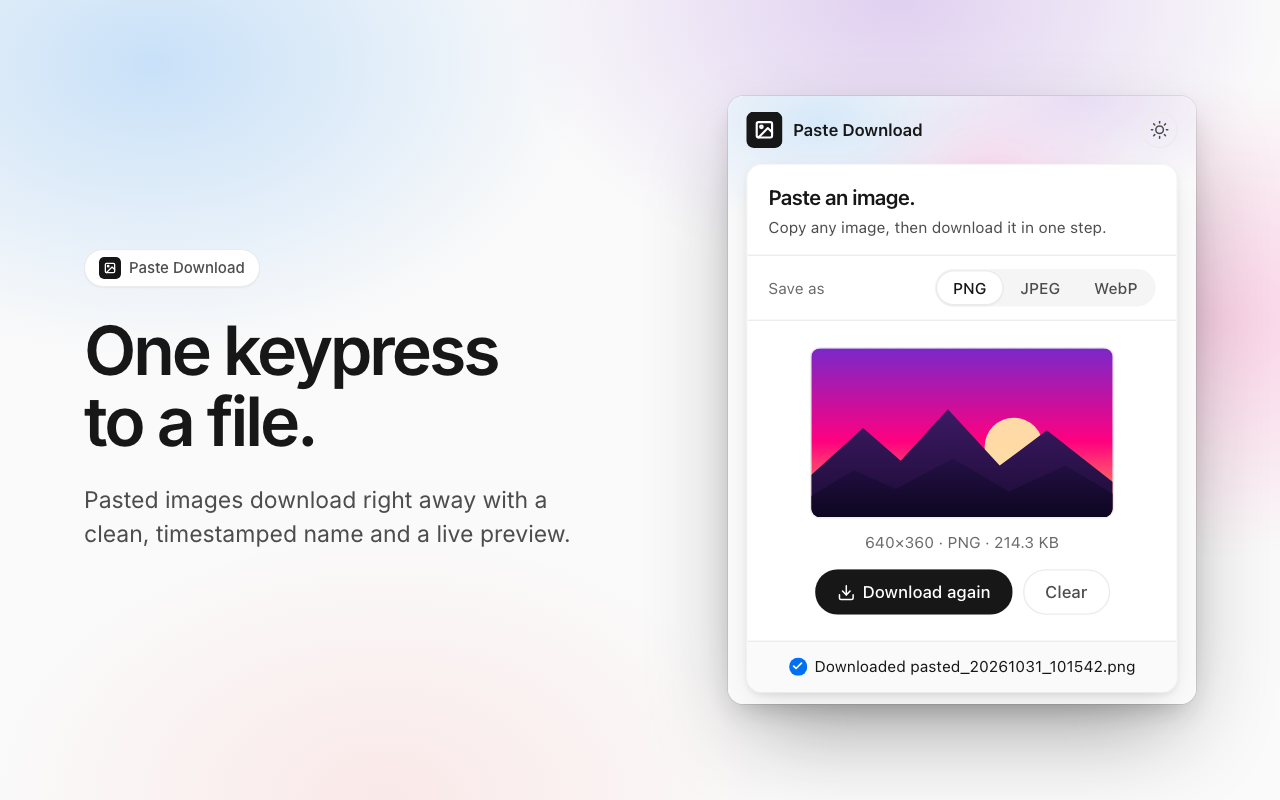
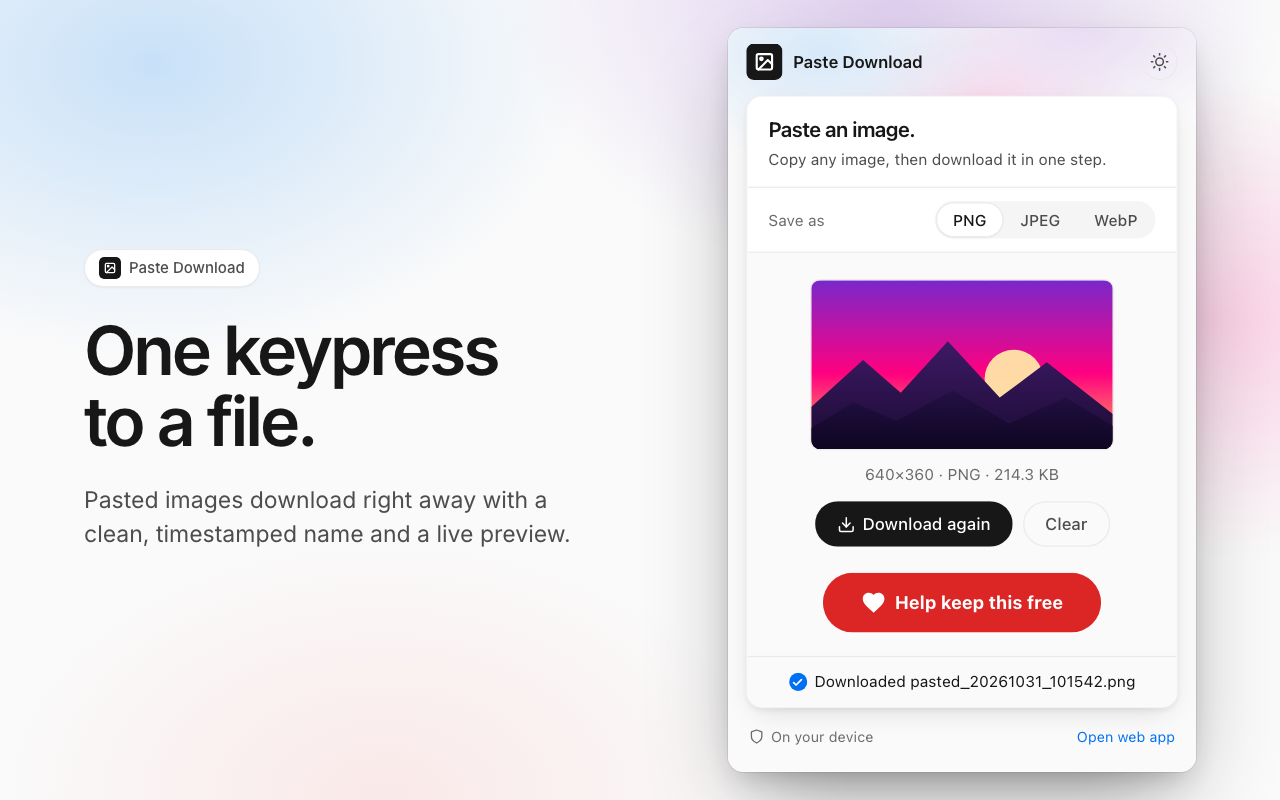
Add optional Ko-fi support button to extension, bump to 1.0.1, update listing, privacy policy and store assets

Changed region(s): [[0.5625, 0.3438, 0.9375, 1.0], [0.5625, 0.0312, 0.9062, 0.3125]]

diff --git a/extension/popup.js b/extension/popup.js
@@ -10,6 +10,8 @@ const shortcut = document.getElementById('shortcut');
 const downloadBtn = document.getElementById('downloadBtn');
 const clearBtn = document.getElementById('clearBtn');
 const themeToggle = document.getElementById('themeToggle');
+const supportCard = document.getElementById('supportCard');
+const supportDismiss = document.getElementById('supportDismiss');
 
 const isMac = /Mac|iPhone|iPad/.test(navigator.platform);
 shortcut.textContent = isMac ? 'Cmd + V' : 'Ctrl + V';
@@ -29,6 +31,15 @@ function save(key, value) {
     localStorage.setItem(key, value);
   } catch {
     // Storage unavailable, ignore
+  }
+}
+
+const SUPPORT_SNOOZE_MS = 7 * 24 * 60 * 60 * 1000;
+
+function showSupportCard() {
+  const until = Number(load('pdaSupportSnooze', '0'));
+  if (Date.now() >= until) {
+    supportCard.hidden = false;
   }
 }
 
@@ -97,6 +108,7 @@ function convertAndDownload(img) {
     downloadBlob(blob, filename);
     info.textContent = `${img.naturalWidth}×${img.naturalHeight} · ${format.toUpperCase()} · ${formatFileSize(blob.size)}`;
     setStatus(`Downloaded ${filename}`, 'ok');
+    showSupportCard();
   }, getMimeType(format), 0.92);
 }
 
@@ -133,7 +145,6 @@ function clearPreview() {
   preview.hidden = true;
   placeholder.hidden = false;
   setStatus('', '');
-  dropZone.focus();
 }
 
 document.addEventListener('paste', (e) => {
@@ -181,6 +192,11 @@ formatButtons.forEach((btn) => {
   });
 });
 
+supportDismiss.addEventListener('click', () => {
+  save('pdaSupportSnooze', String(Date.now() + SUPPORT_SNOOZE_MS));
+  supportCard.hidden = true;
+});
+
 const themeOrder = ['system', 'light', 'dark'];
 
 function applyTheme(pref) {
@@ -202,4 +218,3 @@ themeToggle.addEventListener('click', () => {
 
 setFormat(load('pdaFormat', 'png'));
 applyTheme(load('pdaTheme', 'system'));
-dropZone.focus();

diff --git a/extension/popup.css b/extension/popup.css
@@ -254,10 +254,6 @@ h1 {
   padding: 20px 16px;
   text-align: center;
   cursor: pointer;
-  transition: background 0.2s;
-}
-
-#dropZone:hover {
   background: var(--canvas-soft);
 }
 
@@ -457,4 +453,83 @@ footer a:hover {
   * {
     transition: none !important;
   }
+}
+
+.support {
+  margin-top: 10px;
+  padding: 14px;
+  text-align: center;
+  background: var(--canvas);
+  border: 1px solid var(--hairline);
+  border-radius: 12px;
+  box-shadow: var(--card-shadow);
+}
+
+.support[hidden] {
+  display: none;
+}
+
+.support-title {
+  margin: 0 0 4px;
+  color: var(--ink);
+  font-size: 13px;
+  font-weight: 600;
+  letter-spacing: -0.01em;
+}
+
+.support-text {
+  margin: 0 0 12px;
+  color: var(--body);
+  font-size: 12px;
+  line-height: 1.45;
+}
+
+.support-btn {
+  justify-content: center;
+  padding: 12px 28px;
+  color: #ffffff;
+  font-size: 14px;
+  font-weight: 700;
+  background: #dc2626;
+  text-decoration: none;
+}
+
+.support-row {
+  display: flex;
+  background: var(--canvas-soft);
+  justify-content: center;
+  padding: 0 16px 18px;
+}
+
+.support-btn:hover {
+  opacity: 1;
+  background: #b91c1c;
+}
+
+.support-note {
+  margin: 8px 0 0;
+  color: var(--mute);
+  font-size: 11px;
+}
+
+.support-dismiss {
+  margin-top: 6px;
+  padding: 2px 6px;
+  color: var(--mute);
+  font: inherit;
+  font-size: 11px;
+  background: none;
+  border: 0;
+  border-radius: 4px;
+  cursor: pointer;
+}
+
+.support-dismiss:hover {
+  color: var(--ink);
+}
+
+.support-btn:focus-visible,
+.support-dismiss:focus-visible {
+  outline: none;
+  box-shadow: 0 0 0 2px var(--link);
 }

diff --git a/extension/popup.html b/extension/popup.html
@@ -67,14 +67,28 @@
         </div>
       </div>
 
+      <div class="support-row">
+        <a id="supportBtn" class="pill support-btn" href="https://ko-fi.com/kappilyadav" target="_blank" rel="noopener">
+          <svg width="20" height="20" viewBox="0 0 24 24" fill="currentColor" aria-hidden="true"><path d="M12 21.35l-1.45-1.32C5.4 15.36 2 12.28 2 8.5 2 5.42 4.42 3 7.5 3c1.74 0 3.41.81 4.5 2.09C13.09 3.81 14.76 3 16.5 3 19.58 3 22 5.42 22 8.5c0 3.78-3.4 6.86-8.55 11.54L12 21.35z"/></svg>
+          Help keep this free
+        </a>
+      </div>
+
       <p id="status" role="status" aria-live="polite"></p>
     </section>
+
+    <aside id="supportCard" class="support" hidden>
+      <p class="support-title">Saved you a step? Help keep it free.</p>
+      <p class="support-text">No ads, no tracking, no uploads. One person builds and maintains this. A small tip keeps updates coming.</p>
+      <p class="support-note">Takes 30 seconds. Tips start at $5.</p>
+      <button type="button" id="supportDismiss" class="support-dismiss" aria-label="Hide this message for a week">Maybe later</button>
+    </aside>
   </main>
 
   <footer>
     <span class="privacy">
       <svg width="12" height="12" viewBox="0 0 24 24" fill="none" stroke="currentColor" stroke-width="2" stroke-linecap="round" stroke-linejoin="round" aria-hidden="true"><path d="M12 22s8-4 8-10V5l-8-3-8 3v7c0 6 8 10 8 10z"/></svg>
-      Processed on your device
+      On your device
     </span>
     <a href="https://pastedownloadapp.com" target="_blank" rel="noopener">Open web app</a>
   </footer>

diff --git a/extension-store/build.py b/extension-store/build.py
@@ -113,7 +113,7 @@ def popup_doc(state='empty', theme='light', fmt='png', os_key='Ctrl + V'):
 
 
 def popup_frame(state='empty', theme='light', fmt='png', scale=1.5, os_key='Ctrl + V', height=None):
-  heights = {'empty': 430, 'done': 468}
+  heights = {'empty': 506, 'done': 572}
   hgt = height or heights[state]
   doc = html.escape(popup_doc(state, theme, fmt, os_key), quote=True)
   w, hh = 360 * scale, hgt * scale
@@ -185,7 +185,7 @@ def shot1():
   return page(1280, 800, split_layout(
     BRAND, 'Copy. Paste.<br>Downloaded.',
     'Open the extension, press <kbd>Ctrl+V</kbd> or <kbd>Cmd+V</kbd>, and your copied image is saved.',
-    popup_frame('empty', 'light', 'png', 1.5)))
+    popup_frame('empty', 'light', 'png', 1.3)))
 
 
 def shot2():
@@ -203,8 +203,8 @@ def shot3():
 
 
 def shot4():
-  left = popup_frame('empty', 'light', 'png', 1.05, 'Ctrl + V')
-  right = popup_frame('empty', 'dark', 'png', 1.05, 'Ctrl + V').replace('class="popup"', 'class="popup dk"')
+  left = popup_frame('empty', 'light', 'png', 0.92, 'Ctrl + V')
+  right = popup_frame('empty', 'dark', 'png', 0.92, 'Ctrl + V').replace('class="popup"', 'class="popup dk"')
   body = f'''
   <div style="position:absolute;top:56px;left:0;right:0;text-align:center;display:flex;flex-direction:column;align-items:center;gap:18px">
     {BRAND}

diff --git a/extension-store/LISTING.md b/extension-store/LISTING.md
@@ -4,7 +4,7 @@ Everything below is ready to copy into the Chrome Web Store developer dashboard 
 
 ## 1. Package
 
-Upload this file: `extension-store/paste-download-app-1.0.0.zip`
+Upload this file: `extension-store/paste-download-app-1.0.1.zip`
 
 It contains only the extension files (manifest, popup, scripts, icons) with `manifest.json` at the zip root.
 
@@ -46,11 +46,13 @@ FEATURES
 PRIVATE BY DESIGN
 - Your images are never uploaded. Everything happens on your device.
 - No account, no sign-in, no analytics, no tracking.
-- The extension makes no network requests.
+- The extension makes no network requests of its own.
 - It asks for a single permission, clipboard read access, which is used only when you paste.
 
 WHO IT IS FOR
 Anyone who needs to turn a copied image or screenshot into a real image file without opening an editor: writers, developers, designers, support teams, students and anyone who shares screenshots every day.
+
+Paste Download is free. If it saves you time, you can optionally support its development with the "Help keep this free" button. Nothing is locked behind a payment, and the button simply opens a Ko-fi page in a new tab.
 
 Paste Download also works as a free web app at https://pastedownloadapp.com, where you can additionally download images from a URL.
 
@@ -126,13 +128,14 @@ No account or login is needed.
 3. Press Ctrl+V (Cmd+V on Mac), or tap the paste area and allow clipboard access if asked.
 4. The image downloads to the Downloads folder as pasted_YYYYMMDD_HHMMSS.png. Use the PNG / JPEG / WebP selector to change the format.
 The extension has no background script, content script or network access. Its only permission is clipboardRead.
+The red "Help keep this free" button is an optional donation link. It only opens https://ko-fi.com/kappilyadav in a new tab when clicked. No payment happens inside the extension and no feature depends on it.
 ```
 
 ## 7. Submission checklist
 
 1. Deploy the website so https://pastedownloadapp.com/privacy/ shows the Browser Extension section.
 2. Sign in to the developer dashboard (a one-time $5 registration fee applies if the account is new) and create a New item.
-3. Upload `paste-download-app-1.0.0.zip`.
+3. Upload `paste-download-app-1.0.1.zip`.
 4. Fill the Store listing, Privacy and Distribution tabs with the text above and upload the graphics.
 5. Submit for review. Reviews typically take from a few hours to a few days.
 

diff --git a/extension/README.md b/extension/README.md
@@ -16,3 +16,4 @@ Zip the contents of this folder (so `manifest.json` is at the zip root) and uplo
 
 - Only the `clipboardRead` permission is requested.
 - The chosen format (PNG, JPEG, WebP) is remembered in the popup's local storage.
+- The popup shows an optional support message after a download. "Maybe later" hides it for a week (stored in local storage). The support links open https://ko-fi.com/kappilyadav in a new tab only when clicked, and the extension never contacts Ko-fi itself.
